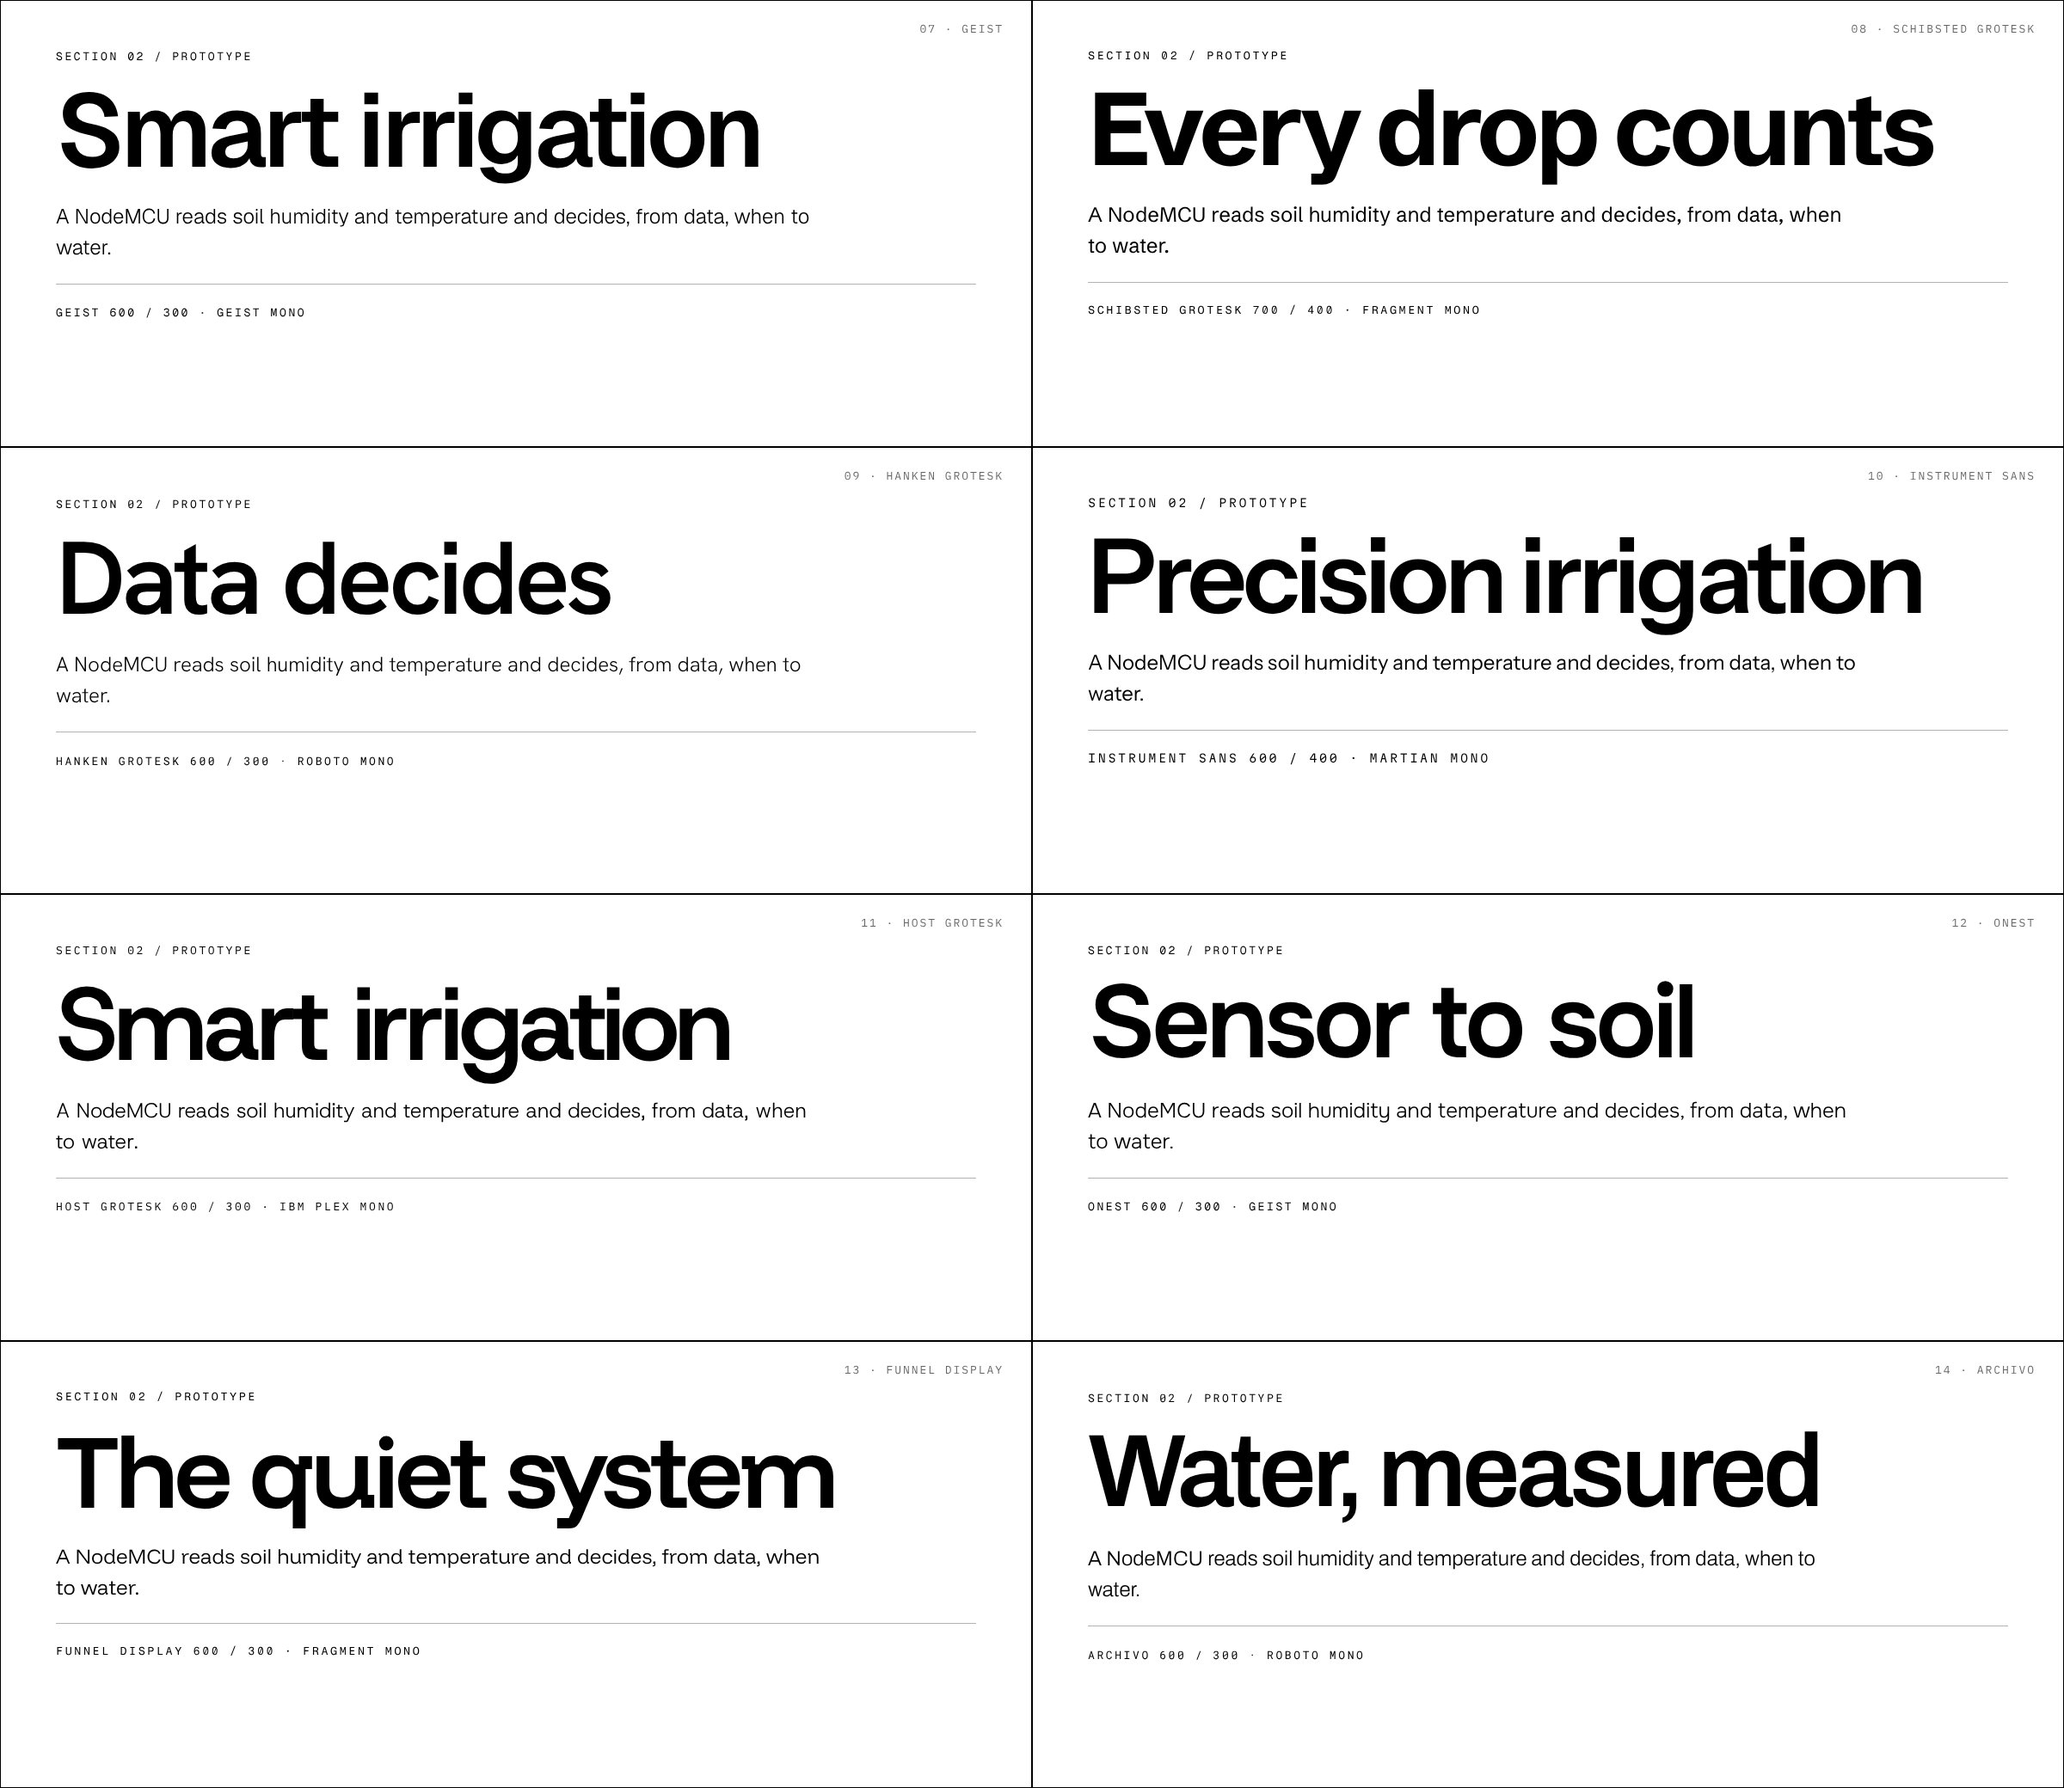
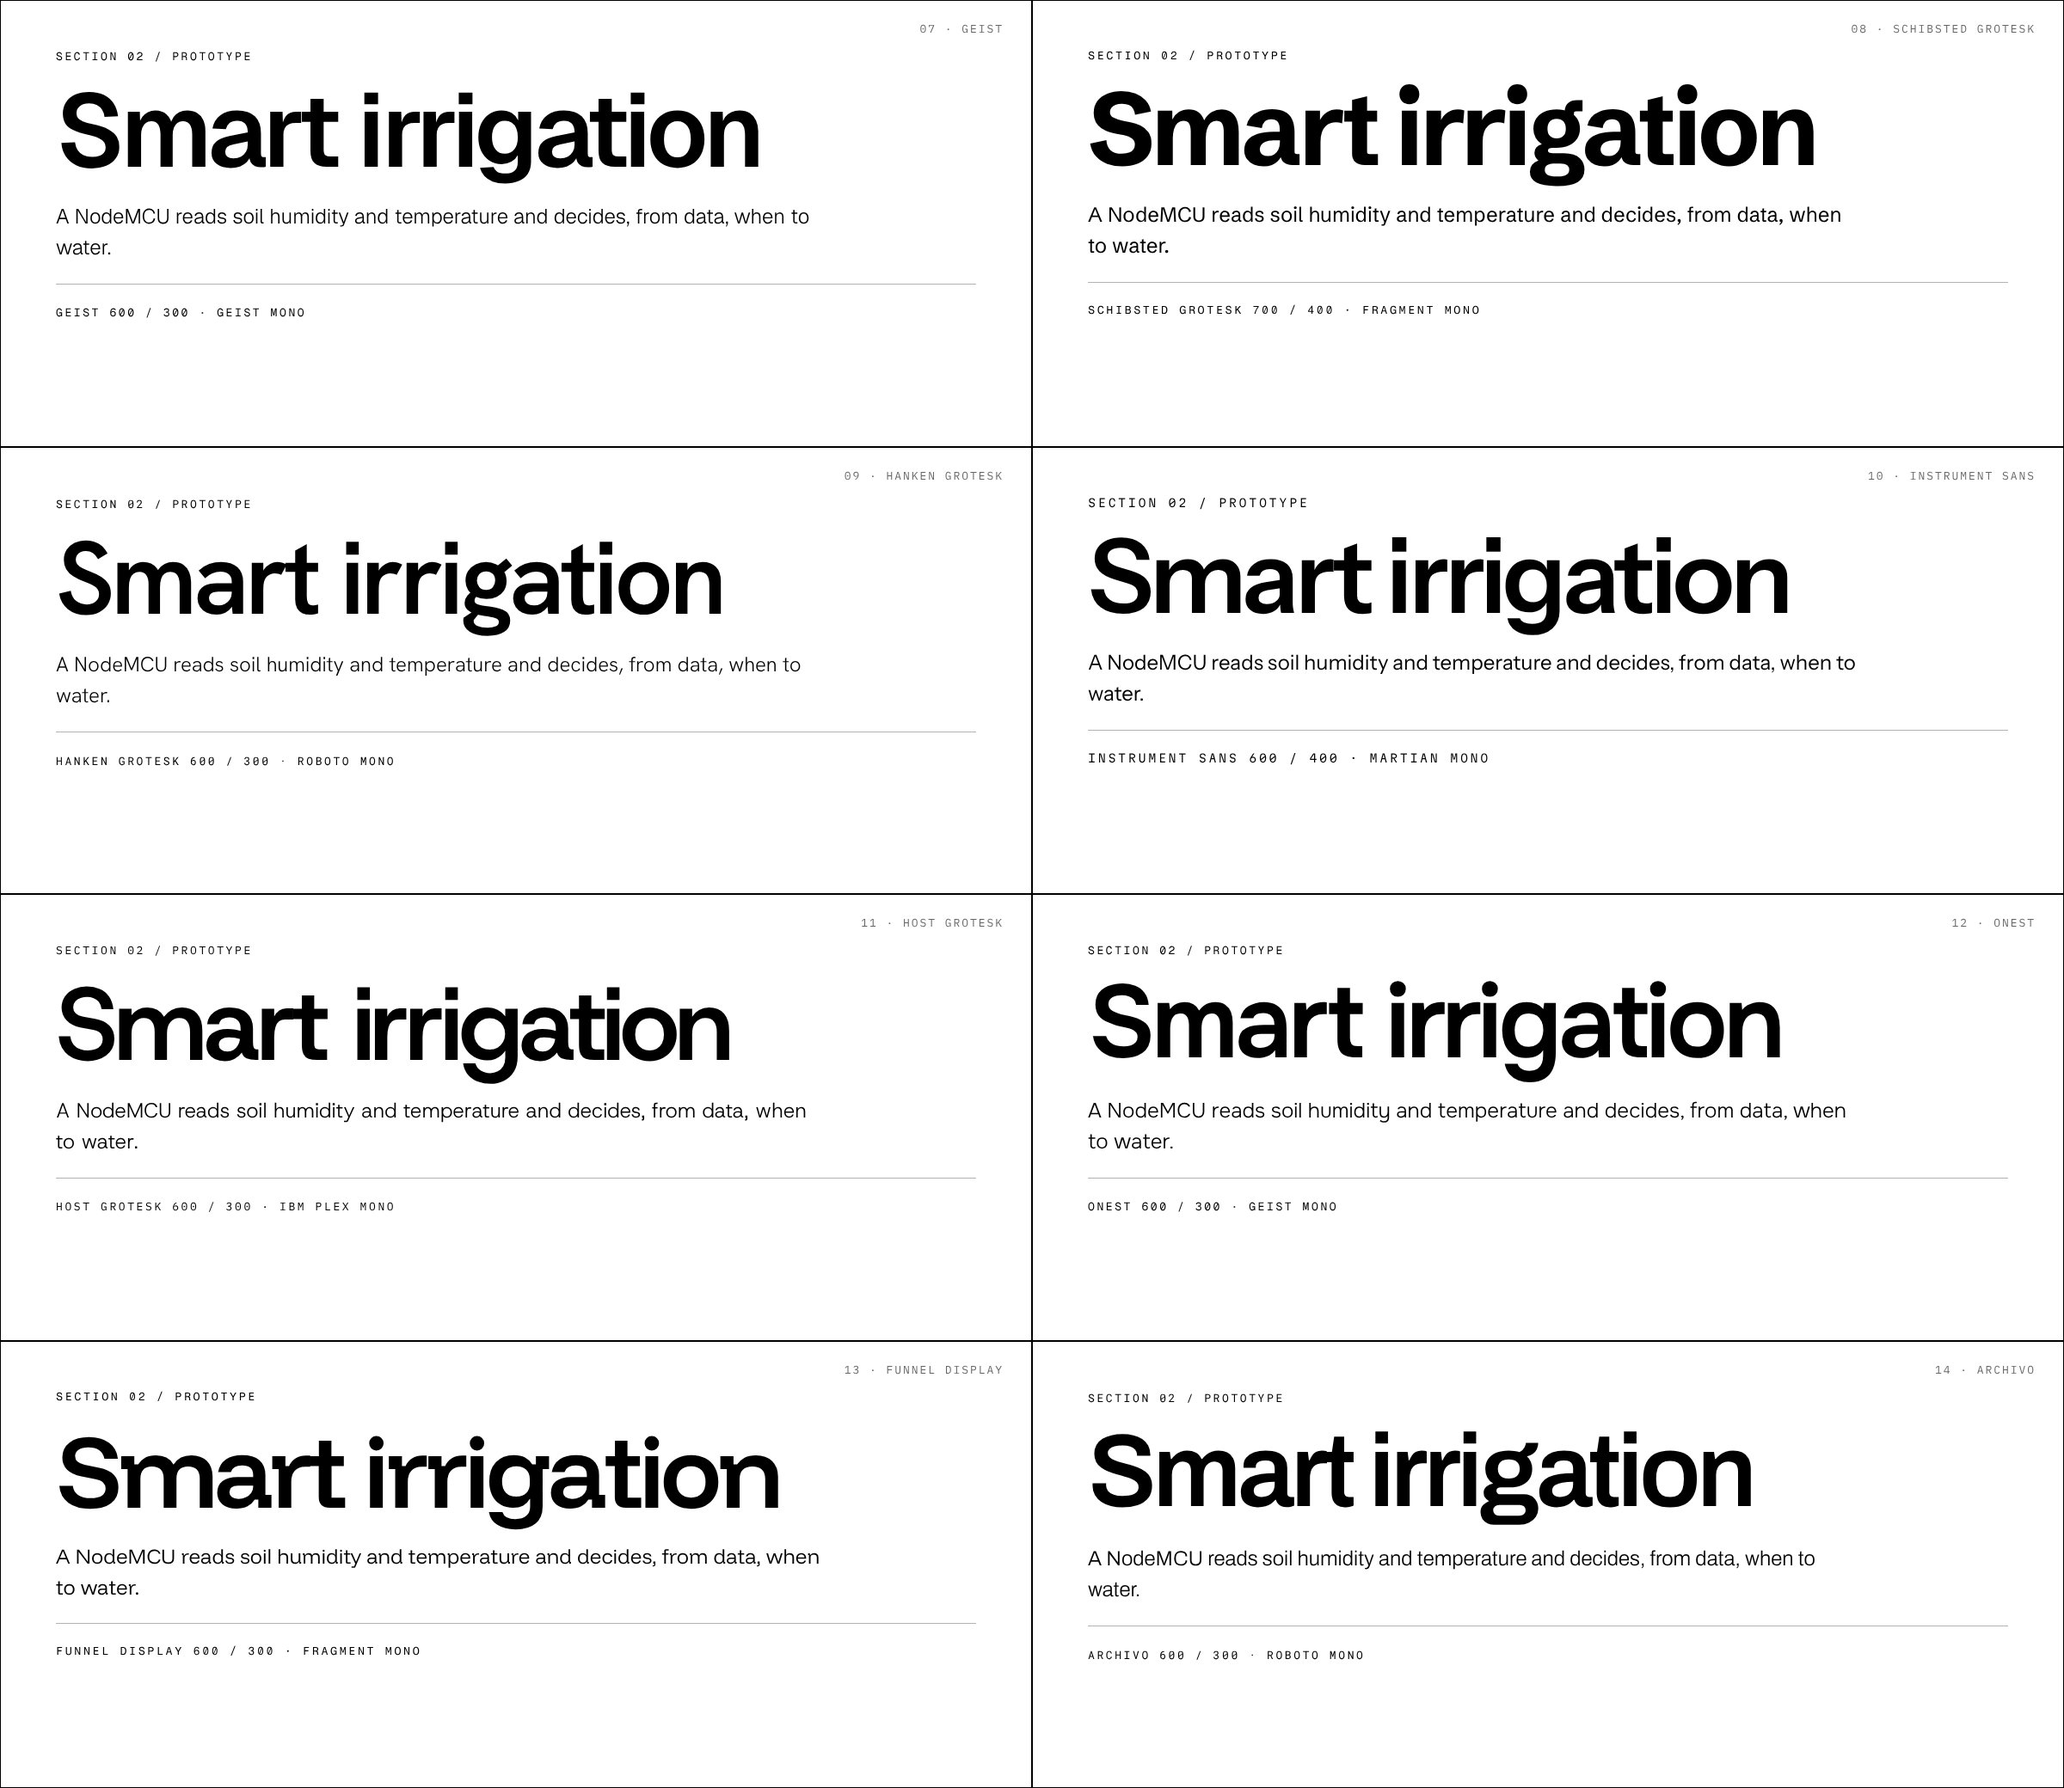
Type specimens: same headline on every Swiss pairing
Claude-Session: https://claude.ai/code/session_01PchemtfrPnXx57Zg6o9MzX

diff --git a/billboard/type/swiss.html b/billboard/type/swiss.html
@@ -15,15 +15,15 @@ hr{border:0;border-top:1px solid #000;margin:24px 0;opacity:.3}
 <p class="b" style="font-family:'Geist';font-weight:300">A NodeMCU reads soil humidity and temperature and decides, from data, when to water.</p><hr>
 <p class="l" style="font-family:'Geist Mono'">Geist 600 / 300 · Geist Mono</p></div>
 <div class="c"><span class="n">08 · Schibsted Grotesk</span><p class="l" style="font-family:'Fragment Mono'">Section 02 / Prototype</p>
-<h2 class="h" style="font-family:'Schibsted Grotesk';font-weight:700">Every drop counts</h2>
+<h2 class="h" style="font-family:'Schibsted Grotesk';font-weight:700">Smart irrigation</h2>
 <p class="b" style="font-family:'Schibsted Grotesk';font-weight:400">A NodeMCU reads soil humidity and temperature and decides, from data, when to water.</p><hr>
 <p class="l" style="font-family:'Fragment Mono'">Schibsted Grotesk 700 / 400 · Fragment Mono</p></div>
 <div class="c"><span class="n">09 · Hanken Grotesk</span><p class="l" style="font-family:'Roboto Mono'">Section 02 / Prototype</p>
-<h2 class="h" style="font-family:'Hanken Grotesk';font-weight:600">Data decides</h2>
+<h2 class="h" style="font-family:'Hanken Grotesk';font-weight:600">Smart irrigation</h2>
 <p class="b" style="font-family:'Hanken Grotesk';font-weight:300">A NodeMCU reads soil humidity and temperature and decides, from data, when to water.</p><hr>
 <p class="l" style="font-family:'Roboto Mono'">Hanken Grotesk 600 / 300 · Roboto Mono</p></div>
 <div class="c"><span class="n">10 · Instrument Sans</span><p class="l" style="font-family:'Martian Mono'">Section 02 / Prototype</p>
-<h2 class="h" style="font-family:'Instrument Sans';font-weight:600">Precision irrigation</h2>
+<h2 class="h" style="font-family:'Instrument Sans';font-weight:600">Smart irrigation</h2>
 <p class="b" style="font-family:'Instrument Sans';font-weight:400">A NodeMCU reads soil humidity and temperature and decides, from data, when to water.</p><hr>
 <p class="l" style="font-family:'Martian Mono'">Instrument Sans 600 / 400 · Martian Mono</p></div>
 <div class="c"><span class="n">11 · Host Grotesk</span><p class="l" style="font-family:'IBM Plex Mono'">Section 02 / Prototype</p>
@@ -31,15 +31,15 @@ hr{border:0;border-top:1px solid #000;margin:24px 0;opacity:.3}
 <p class="b" style="font-family:'Host Grotesk';font-weight:300">A NodeMCU reads soil humidity and temperature and decides, from data, when to water.</p><hr>
 <p class="l" style="font-family:'IBM Plex Mono'">Host Grotesk 600 / 300 · IBM Plex Mono</p></div>
 <div class="c"><span class="n">12 · Onest</span><p class="l" style="font-family:'Geist Mono'">Section 02 / Prototype</p>
-<h2 class="h" style="font-family:'Onest';font-weight:600">Sensor to soil</h2>
+<h2 class="h" style="font-family:'Onest';font-weight:600">Smart irrigation</h2>
 <p class="b" style="font-family:'Onest';font-weight:300">A NodeMCU reads soil humidity and temperature and decides, from data, when to water.</p><hr>
 <p class="l" style="font-family:'Geist Mono'">Onest 600 / 300 · Geist Mono</p></div>
 <div class="c"><span class="n">13 · Funnel Display</span><p class="l" style="font-family:'Fragment Mono'">Section 02 / Prototype</p>
-<h2 class="h" style="font-family:'Funnel Display';font-weight:600">The quiet system</h2>
+<h2 class="h" style="font-family:'Funnel Display';font-weight:600">Smart irrigation</h2>
 <p class="b" style="font-family:'Funnel Display';font-weight:300">A NodeMCU reads soil humidity and temperature and decides, from data, when to water.</p><hr>
 <p class="l" style="font-family:'Fragment Mono'">Funnel Display 600 / 300 · Fragment Mono</p></div>
 <div class="c"><span class="n">14 · Archivo</span><p class="l" style="font-family:'Roboto Mono'">Section 02 / Prototype</p>
-<h2 class="h" style="font-family:'Archivo';font-weight:600">Water, measured</h2>
+<h2 class="h" style="font-family:'Archivo';font-weight:600">Smart irrigation</h2>
 <p class="b" style="font-family:'Archivo';font-weight:300">A NodeMCU reads soil humidity and temperature and decides, from data, when to water.</p><hr>
 <p class="l" style="font-family:'Roboto Mono'">Archivo 600 / 300 · Roboto Mono</p></div>
 </div></body></html>
